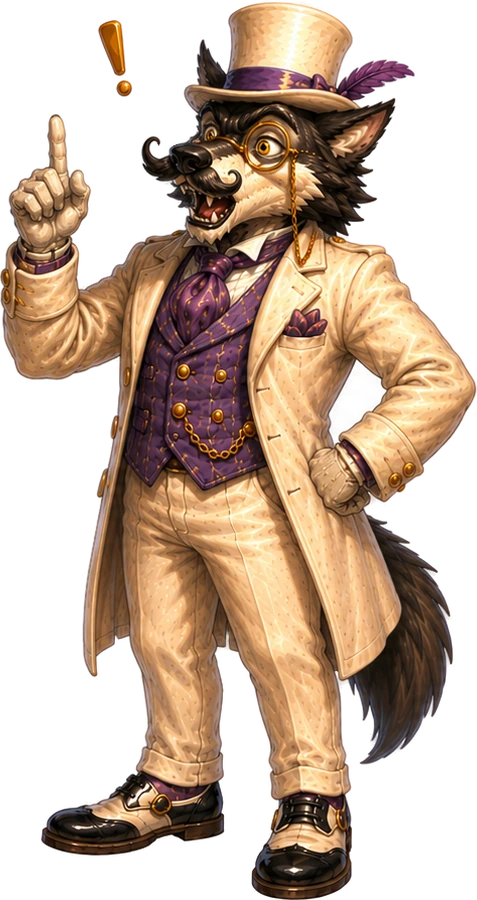
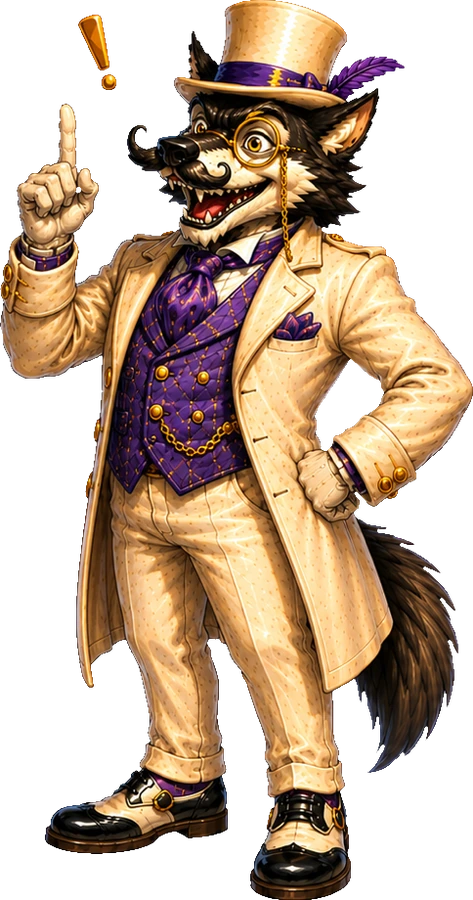
Wolf: top-hat (Sir Reginald) costume art + costume-consistent reactions
De-fringe and replace the top-hat button-dandy poses (buttons/present/proud/
arms/point/flower + base, plus an extra examine pose) and add the new swollen
wolf_tophat_allergic. Wire his button-collection event with a moodArt override
so his happy/angry/allergic result reactions stay in the top-hat costume, with a
fit scale for the allergic pose.

Claude-Session: https://claude.ai/code/session_01LXqynh2272HPNfiS49TDfc

diff --git a/docs/js/ui.js b/docs/js/ui.js
@@ -7,7 +7,7 @@
 
 const { R, newRound, applyTripleMatch, scoreMix, scoreResult, BALANCE } = ENGINE;
 const D = DATA;
-const BUILD = "v601"; // bump on each deploy; shown on the start screen to verify the live version
+const BUILD = "v602"; // bump on each deploy; shown on the start screen to verify the live version
 
 
 if (typeof ART !== "undefined" && ART.setVersion) ART.setVersion(BUILD); // cache-bust all art per build so updated images always refetch
@@ -317,7 +317,7 @@ const CHAR_OFFY = { fish: 9, bo_peep: 2, gingerbread: 5, gothel: 6, stepmother: 
 const CHAR_OFFX = {};
 // per-mood scale overrides ("<id>_<mood>") for the results portrait only, when one
 // pose frames differently than the rest (e.g. the sponge sword's tall allergic pose).
-const CHAR_MOOD_SCALE = { sword_allergic: 0.88, wolf_allergic: 0.82, wolf_tourist_allergic: 0.66, wolf_bowler_allergic: 0.95 };   // wolf's puffed-up allergic poses are wide — shrink so they fit the frame
+const CHAR_MOOD_SCALE = { sword_allergic: 0.88, wolf_allergic: 0.82, wolf_tourist_allergic: 0.66, wolf_bowler_allergic: 0.95, wolf_tophat_allergic: 0.92 };   // wolf's puffed-up allergic poses are wide — shrink so they fit the frame
 const PEARL = '<span class="pearl-ic" aria-label="pearl"></span>';   // a glossy CSS pearl (nicer than any emoji)
 
 /* ═══════════════════════════════════════════════════════════════════════════
@@ -1087,11 +1087,12 @@ function maybePigsMoving() {
 function wolfCust(name) { return { id: "wolf", name: name || "“Sir Reginald Notawolf”", emoji: "🐺", wishType: "PrettyPotion", location: "Willow-Wish Village", line: "" }; }
 function playWolfButtons() {
   SFX.unlock();
-  ["wolf_tophat_buttons", "wolf_tophat_proud"].forEach(f => ART.ensure(f, () => {}));
+  ["wolf_tophat_buttons", "wolf_tophat_proud", "wolf_tophat_arms", "wolf_tophat_allergic"].forEach(f => ART.ensure(f, () => {}));
+  const moodArt = { happy: "wolf_tophat_proud", angry: "wolf_tophat_arms", allergic: "wolf_tophat_allergic" };
   renderStoryBeats([
     { name: "“Sir Reginald Notawolf”", fig: "wolf_tophat_buttons", text: "Good day! Sir Reginald Notawolf — gentleman, connoisseur, <b>no</b> relation to any wolf. <i>(He flips open a velvet case of gleaming buttons.)</i> Behold! The finest button collection the realm has ever seen." },
     { name: "“Sir Reginald Notawolf”", fig: "wolf_tophat_proud", cta: "Riiight…  ▸", text: "Every last one acquired <i>honestly</i>, I assure you — I’d <b>never</b> know a thing about buttons going missing all over town. Preposterous! Now, a small wish, if you’d be so kind: make my collection positively <b>gleam</b>." },
-  ], () => startStoryWish(Object.assign(wolfCust(), { art: "wolf_tophat_proud" }), "wolf-buttons", "A dab of your finest button-polish, my good friend — for my perfectly-legitimate, not-at-all-stolen collection."));
+  ], () => startStoryWish(Object.assign(wolfCust(), { art: "wolf_tophat_proud", moodArt }), "wolf-buttons", "A dab of your finest button-polish, my good friend — for my perfectly-legitimate, not-at-all-stolen collection."));
 }
 function playRedButtons() {
   SFX.unlock();

diff --git a/docs/index.html b/docs/index.html
@@ -9,10 +9,10 @@
 <meta name="apple-mobile-web-app-title" content="Wish Pop">
 <meta name="mobile-web-app-capable" content="yes">
 <title>Wish Pop: Bubble Shop</title>
-<link rel="manifest" href="manifest.webmanifest?v=601">
-<link rel="apple-touch-icon" href="apple-touch-icon.png?v=601">
-<link rel="icon" type="image/png" href="icon-192.png?v=601">
-<link rel="stylesheet" href="css/styles.css?v=601">
+<link rel="manifest" href="manifest.webmanifest?v=602">
+<link rel="apple-touch-icon" href="apple-touch-icon.png?v=602">
+<link rel="icon" type="image/png" href="icon-192.png?v=602">
+<link rel="stylesheet" href="css/styles.css?v=602">
 
 
 </head>
@@ -42,11 +42,11 @@
   <p class="muted">Wish Pop is played upright. Turn your phone back to keep making wishes come true!</p>
 </div>
 
-<script src="js/audio.js?v=601"></script>
-<script src="js/data.js?v=601"></script>
-<script src="js/engine.js?v=601"></script>
-<script src="js/art.js?v=601"></script>
-<script src="js/ui.js?v=601"></script>
+<script src="js/audio.js?v=602"></script>
+<script src="js/data.js?v=602"></script>
+<script src="js/engine.js?v=602"></script>
+<script src="js/art.js?v=602"></script>
+<script src="js/ui.js?v=602"></script>
 
 
 <script>
